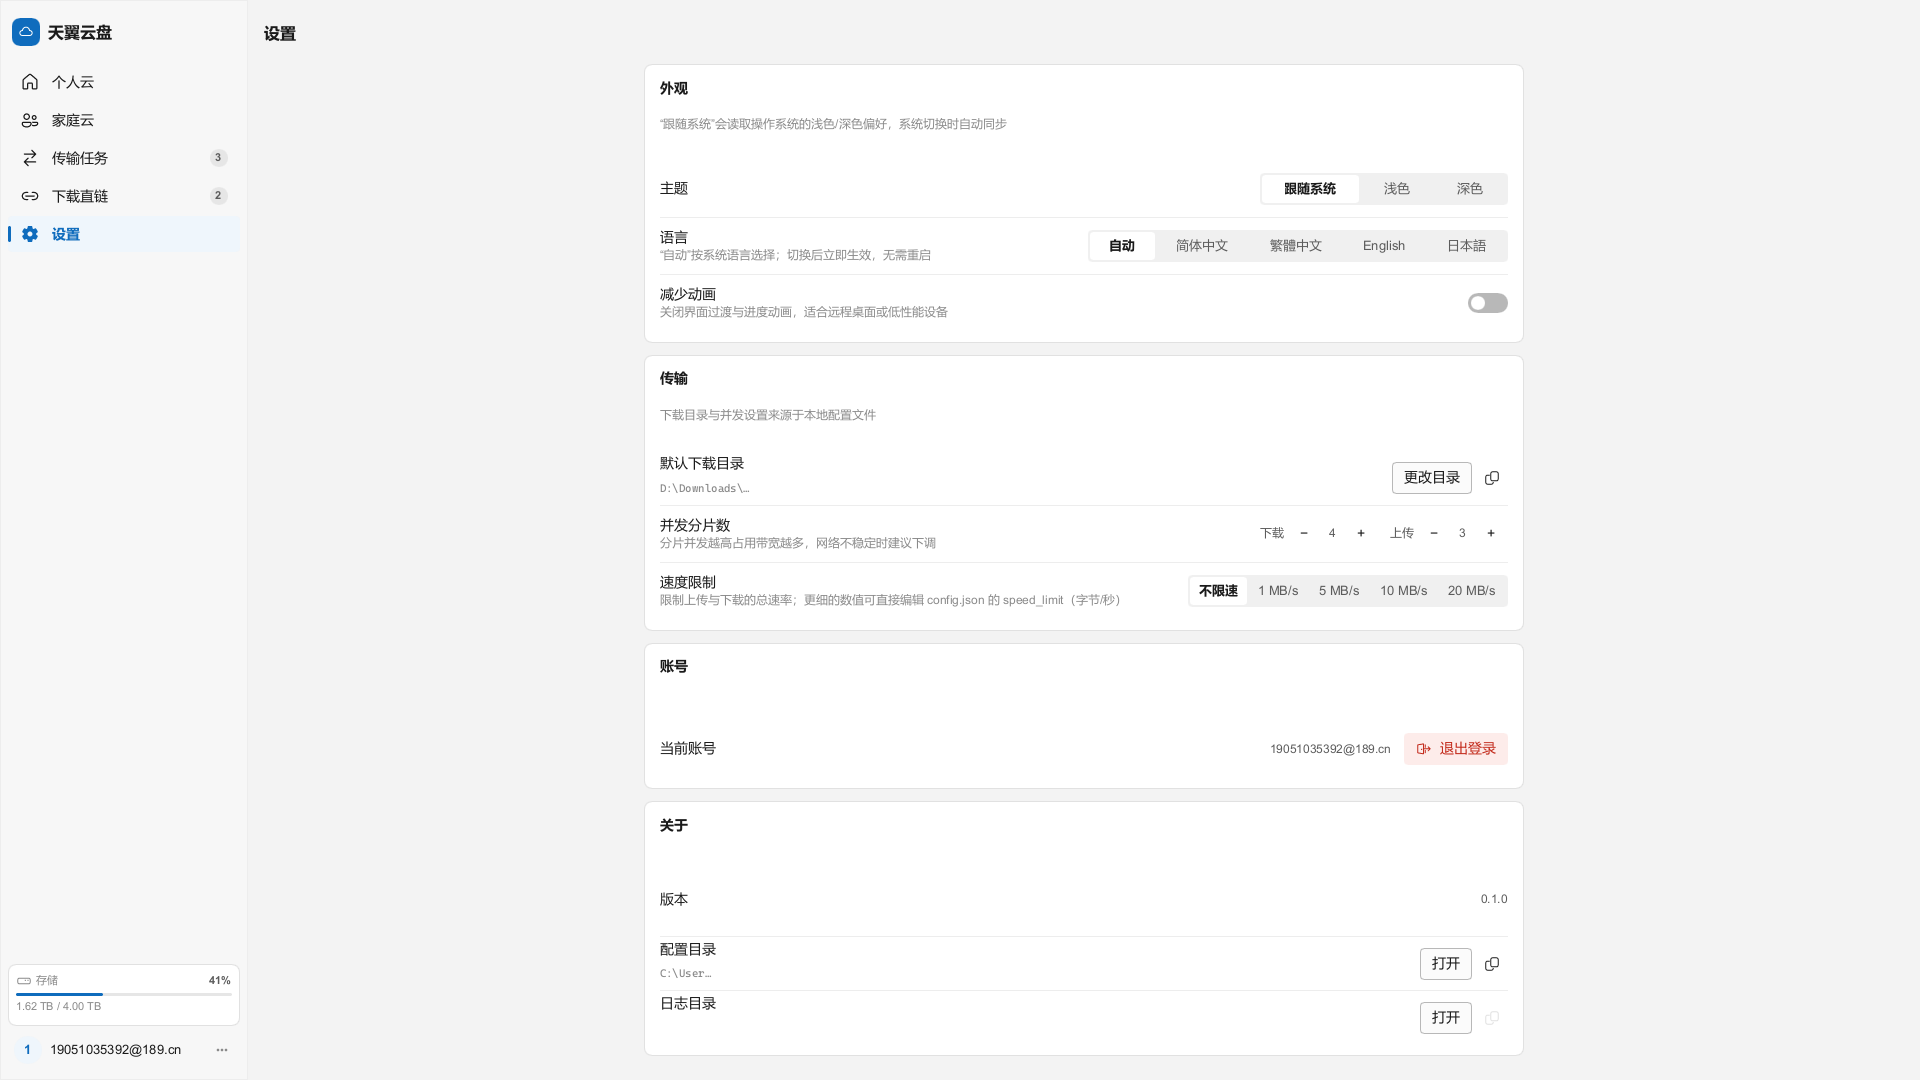
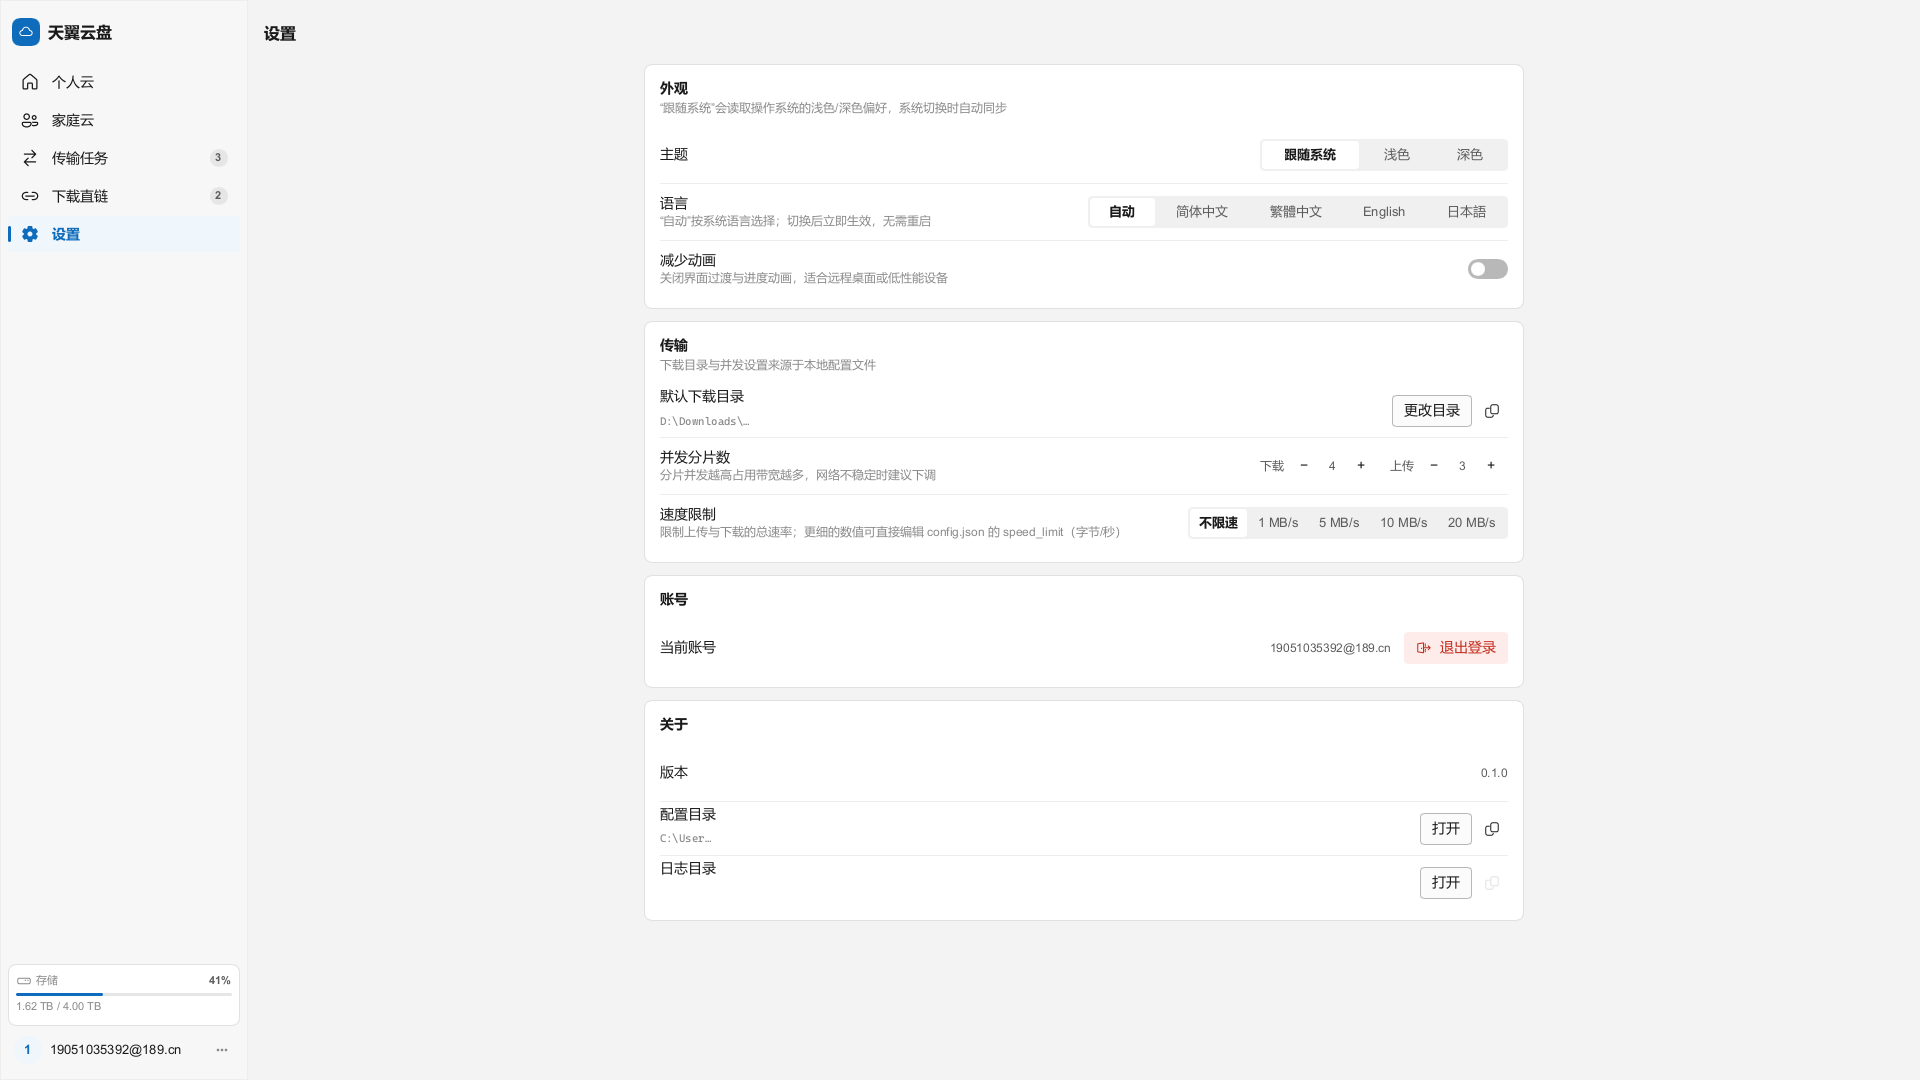
fix(ui): 设置页卡片不再被纵向拉伸，高视口下消除大块空白
D-26：1920×1080 下设置列被撑成视口高（1008px）而卡片按内容只需 873px，余量 135px 经
solve_box_layout → adjust_items 均摊给四张卡片（每张 +33.8px），卡片内部于是出现大块
空白；反向（内容比视口高）则会把卡片压扁。根因三层：ScrollView 把内容盒拉到视口高 →
外层 HorizontalLayout 交叉轴默认 stretch → 列内 VerticalLayout 走兜底均分分支。
修法：cross-axis-alignment: start，这一列只拿自己的首选高度，纵向余量与溢出全部还给
ScrollView（矮窗口照旧滚动，高窗口下方留背景，与 Win11 设置页一致）。
给四张卡片加 vertical-stretch: 0 实测无效：所有子项 stretch 都为 0 时盒布局退化成
「把余量平均分给每个可增长项」，四行一句都没起作用——这条已写进注释免得后人重试。

自我更正：缺陷描述里的「关于卡片末行被裁」在修前基线上并未发生像素级裁切（末行在卡片
内，只是卡片被撑高、空白上移）；日志目录看不到路径文本是演示数据没设 log_dir。判别量
因此定为「同一卡片在 760 与 1080 高度下必须一样高」（修前 245 vs 278.8，修后 245 vs 245）。

验证：+2 条断言；13/15 两张设置基线逐字节未变（760/768 档本来就矮于内容，从未被拉伸），
只有 14 变化——这是「除卡片高度外零视觉变化」的最强证据。

diff --git a/crates/tianyi-app/src/ui_tests.rs b/crates/tianyi-app/src/ui_tests.rs
@@ -3152,3 +3152,205 @@ fn check_speed_limit_row_reports_segment_click() {
         failures.join("\n")
     );
 }
+
+// ==================== L. 第四轮 W7：设置页卡片高度只由内容决定（D-26） ====================
+
+/// 桌面档：1920×1080。视口比内容高，D-26 只在这一档暴露。
+const DESKTOP: (f32, f32) = (1920.0, 1080.0);
+
+/// 设置页的四张分组卡片（`SettingsSection`），按文档顺序：外观 / 传输 / 账号 / 关于
+///
+/// 按组件类型名查而不是按标题查：卡片本身没有可读名称（它就是一个背景矩形），
+/// 标题是卡片里的第一行 `Text`。两者的对应关系由元素树的文档顺序保证。
+fn settings_sections(ui: &crate::app::MainWindow) -> Vec<ElementHandle> {
+    ElementQuery::from_root(ui)
+        .match_inherits("SettingsSection")
+        .find_all()
+}
+
+/// 卡片标题：卡片内最靠上的那个 `Text`（版式里标题就是第一行）
+///
+/// 只用来给人眼看的实测表/失败信息加上名字，不参与断言：内容被滚出视口时
+/// `ScrollView` 会连带把屏外元素从查询结果里去掉，标题此时查不到、退化成空串。
+fn section_title(section: &ElementHandle) -> String {
+    section
+        .query_descendants()
+        .match_inherits("Text")
+        .find_all()
+        .into_iter()
+        .min_by(|a, b| a.absolute_position().y.total_cmp(&b.absolute_position().y))
+        .map(|title| label_of(&title))
+        .unwrap_or_default()
+}
+
+/// 某一档窗口下、设置页四张卡片的 `(标题, 高度)`（按文档顺序）
+fn settings_section_heights(size: (f32, f32)) -> Vec<(String, f32)> {
+    let ui = boot(size);
+    ui.set_logged_in(true);
+    ui.set_current_page(4);
+    settle();
+
+    let sections = settings_sections(&ui);
+    println!(
+        "L 设置页窗口 {:.0}×{:.0}：卡片 {} 张",
+        size.0,
+        size.1,
+        sections.len()
+    );
+    sections
+        .iter()
+        .map(|section| {
+            let height = section.size().height;
+            let title = section_title(section);
+            println!(
+                "L   「{title}」y={:.1} 高={:.1}",
+                section.absolute_position().y,
+                height
+            );
+            (title, height)
+        })
+        .collect()
+}
+
+/// L1（守 D-26）同一张分组卡片的高度必须与窗口高度无关。
+///
+/// 缺陷：`ScrollView` 的内容盒会被拉到「至少和视口一样高」，而内容列外面的
+/// `HorizontalLayout` 交叉轴对齐默认是 `stretch`，于是这一列被撑成内容盒的高度；
+/// 列里的 `VerticalLayout`（`alignment` 默认 `stretch`）再把多出来的高度均摊给
+/// 四张卡片 —— 卡片高度于是跟着窗口高度走：1920×1080 下每张比内容高 33.8px
+/// （卡片内部出现大块空白），反方向则把卡片压扁、末行被卡片下缘切掉
+/// （那一侧由 `check_settings_last_row_not_clipped` 守）。
+///
+/// 判别量是**跨窗口高度的高度不变量**：两档的列宽都是 880px
+/// （`Theme.settings-max-width` 都已生效），内容不因宽度重排，卡片高度必须逐张相等。
+/// 回退什么会红：删掉 `pages/settings.slint` 里那一行 `cross-axis-alignment: start`
+/// → 外观卡片实测 245.0（1180×760）对 278.8（1920×1080），第一张就超出 1px 容差。
+#[test]
+fn check_settings_section_heights_are_window_invariant() {
+    let mut failures: Vec<String> = Vec::new();
+    let default = settings_section_heights(WIDE);
+    let desktop = settings_section_heights(DESKTOP);
+
+    for (size, heights) in [(WIDE, &default), (DESKTOP, &desktop)] {
+        expect(&mut failures, heights.len() == 4, || {
+            format!(
+                "L1: {:.0}×{:.0} 下设置页只查到 {} 张分组卡片（期望 4）—— 少一张，\
+                 下面的逐张对比就失去意义了",
+                size.0,
+                size.1,
+                heights.len()
+            )
+        });
+    }
+
+    for (index, (left, right)) in default.iter().zip(desktop.iter()).enumerate() {
+        let (title_left, height_left) = left;
+        let (title_right, height_right) = right;
+        expect(&mut failures, title_left == title_right, || {
+            format!(
+                "L1: 第 {} 张卡片在两档下标题对不上（1180×760 是「{title_left}」、\
+                 1920×1080 是「{title_right}」）—— 卡片顺序变了，逐张比高度没有意义",
+                index + 1
+            )
+        });
+        expect(
+            &mut failures,
+            (height_left - height_right).abs() <= 1.0,
+            || {
+                format!(
+                    "L1: 「{title_left}」卡片的高度跟着窗口高度变了：1180×760 实测 \
+                 {height_left:.1}px、1920×1080 实测 {height_right:.1}px（容差 1px）—— \
+                 卡片参与了纵向弹性分配，而它的高度本该只由内容决定"
+                )
+            },
+        );
+    }
+
+    assert!(
+        failures.is_empty(),
+        "L1 卡片高度跨窗口不变量失败 {} 项：\n{}",
+        failures.len(),
+        failures.join("\n")
+    );
+}
+
+/// L2（守 D-26 的另一侧）「关于」卡片最后一行必须完整落在卡片内，不许被卡片下缘切掉。
+///
+/// 断言落在两个几何量的大小关系上：末行「打开」按钮的下边缘 ≤ 所属卡片的绝对下边缘。
+/// `ElementQuery` 没有 `parent()`，卡片归属用元素树反查：取设置页里最靠下的那张卡片
+/// （文档顺序里它也是最后一张，即「关于」），再取卡片内 label 为「打开」且最靠下的
+/// 按钮 —— 设置页里两个 `PathRow` 各有一个「打开」按钮（配置目录 / 日志目录），
+/// 最靠下的那个就是末行。末尾那条「按钮必须在卡片顶端之下」是为了证明反查到的
+/// 确实是这张卡片里的按钮，而不是别处的同名按钮。
+///
+/// 已知边界（写在这里以免误判）：测试后端的字体度量固定、内容盒永远不矮于首选高度，
+/// 所以「卡片被压扁」这一侧在这条通道上复现不出来 —— 实测 1920×1080 修复前后都是
+/// 绿。它是真实窗口那个症状（按钮被卡片下缘切掉一条）的守门员；D-26 的判别量是
+/// L1 的跨窗口高度不变量。
+#[test]
+fn check_settings_last_row_not_clipped() {
+    let mut failures: Vec<String> = Vec::new();
+    let ui = boot(DESKTOP);
+    ui.set_logged_in(true);
+    ui.set_current_page(4);
+    settle();
+
+    let sections = settings_sections(&ui);
+    let about = match sections
+        .iter()
+        .max_by(|a, b| a.absolute_position().y.total_cmp(&b.absolute_position().y))
+    {
+        Some(section) => section.clone(),
+        None => panic!("L2: 设置页一张分组卡片都没查到"),
+    };
+
+    let card_top = about.absolute_position().y;
+    let card_bottom = bottom(&about);
+    let card_title = section_title(&about);
+    println!(
+        "L2 末张卡片「{card_title}」: y={card_top:.1} 高={:.1} 下缘={card_bottom:.1}",
+        about.size().height
+    );
+
+    let button = about
+        .query_descendants()
+        .match_inherits("FluentButton")
+        .find_all()
+        .into_iter()
+        .filter(|element| label_of(element) == "打开")
+        .max_by(|a, b| bottom(a).total_cmp(&bottom(b)));
+    let button = match button {
+        Some(button) => button,
+        None => panic!(
+            "L2: 末张卡片「{card_title}」里查不到 label 为「打开」的按钮 —— \
+             末行没渲染出来，或行内操作按钮改了文案"
+        ),
+    };
+
+    let button_top = button.absolute_position().y;
+    let button_bottom = bottom(&button);
+    println!(
+        "L2 「打开」按钮: y={button_top:.1} 高={:.1} 下缘={button_bottom:.1}",
+        button.size().height
+    );
+
+    expect(&mut failures, button_top >= card_top, || {
+        format!(
+            "L2: 反查到的「打开」按钮 y={button_top:.1} 在卡片顶端 {card_top:.1} 之上 —— \
+             它不是「{card_title}」卡片里的那一个，下面的断言不成立"
+        )
+    });
+    expect(&mut failures, button_bottom <= card_bottom + 1.0, || {
+        format!(
+            "L2: 「{card_title}」卡片最后一行越出了卡片下缘：按钮下缘 {button_bottom:.1}px > \
+             卡片下缘 {card_bottom:.1}px（容差 1px）—— 卡片被压得比内容矮，末行被裁掉了"
+        )
+    });
+
+    assert!(
+        failures.is_empty(),
+        "L2 设置页末行裁剪失败 {} 项：\n{}",
+        failures.len(),
+        failures.join("\n")
+    );
+}
